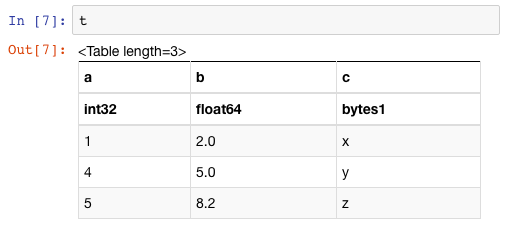
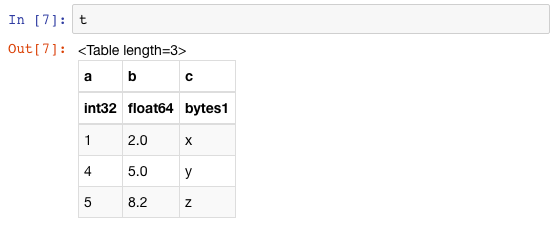
adjust default table to not have width=100%

diff --git a/astropy/table/__init__.py b/astropy/table/__init__.py
@@ -16,7 +16,7 @@ class Conf(_config.ConfigNamespace):
         'determined. Uses new-style (format method) string formatting.',
         aliases=['astropy.table.column.auto_colname'])
     default_notebook_table_class = _config.ConfigItem(
-        'table table-striped table-bordered table-condensed',
+        'table-striped table-bordered table-condensed',
         'The table class to be used in Jupyter notebooks when displaying '
         'tables (and not overridden). See <http://getbootstrap.com/css/#tables '
         'for a list of useful bootstrap classes.')
